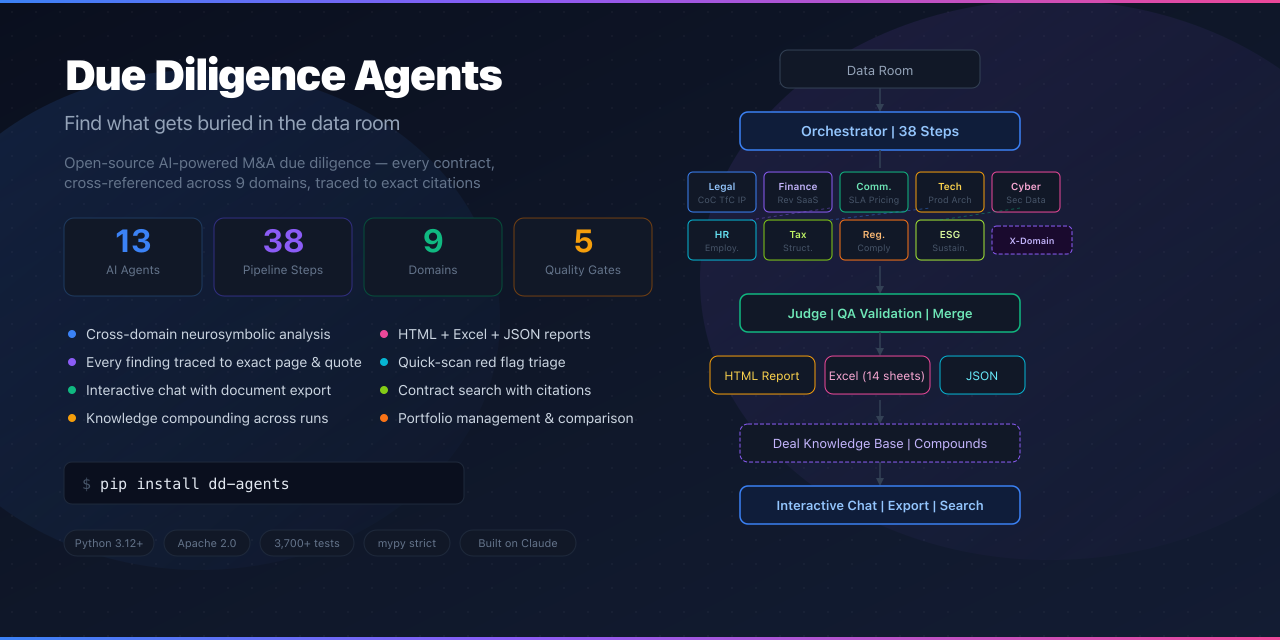
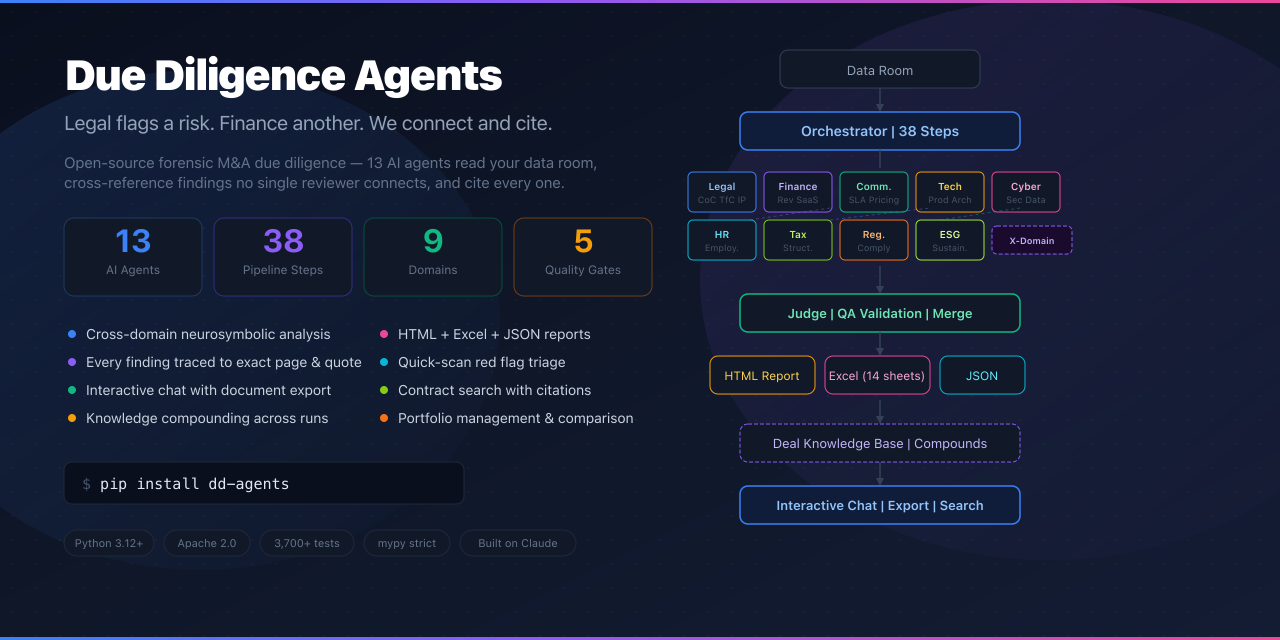
docs(marketing): refresh OG social-preview to new positioning + add distribution channel map
- social-preview.svg/png: tagline → "Legal flags a risk. Finance another. We
  connect and cite." + updated subtitle (kept the accurate architecture diagram,
  stats, badges). Re-rendered 1280×640; also improves docs-site OG previews
  (docs/overrides/main.html embeds it).
- README: fix "CLI Inteface" typo.
- Add docs/marketing/distribution-channels.md — the tiered, two-track channel map.

Repo homepage URL updated (PyPI → docs site) via gh; the repo's OG image itself
must be re-uploaded in GitHub repo Settings (no API for it).

Changed region(s): [[0.125, 0.25, 0.4688, 0.3125], [0.0625, 0.1875, 0.4375, 0.2188]]

diff --git a/docs/marketing/distribution-channels.md b/docs/marketing/distribution-channels.md
@@ -1,0 +1,104 @@
+# Distribution Channels — where to publish dd-agents
+
+> Research-backed map of every strong channel to publish and distribute **Due Diligence Agents**,
+> prioritized. Synthesized 2026-06-07 from launch-platform/directory/AI-tool research + the
+> existing [Product Hunt plan](producthunt-launch-plan.md) and the broader launch plan in project memory.
+
+## The core strategy (read first)
+
+dd-agents has **two audiences that barely overlap**, so we run **two distribution tracks**:
+
+1. **Developers / OSS** — discover via GitHub, Hacker News, package registries, AI-agent lists, dev launch platforms. They reward *open-source, `pip install`, local-run, the 13-agent architecture, cited/auditable*. This track is **free, high-volume, and SEO-compounding**.
+2. **M&A / PE / corp-dev / legaltech professionals** — the value buyers. They don't browse Product Hunt; they're reached via LinkedIn, legaltech press/newsletters, niche communities, and conferences. **Lower volume, far higher intent.**
+
+**Two governing principles from the research:**
+- **Distribution is a cadence, not an event.** "One launch is a coin flip; 12 launches is a marketing engine." Launch something (a feature, a milestone, a case study, the video) on *one* channel per month, forever — each gives a fresh story + a compounding backlink.
+- **Never copy-paste the same blurb** across directories (Google duplicate-content penalty) — rewrite the value prop per platform. Always add **UTM params** (`?utm_source=<channel>&utm_medium=listing`) so we can see what actually works.
+
+Our durable success metrics (free OSS, no signup funnel): **GitHub stars, PyPI/Docker installs, backlinks/DR, newsletter/press pickups, and qualified inbound from M&A pros.**
+
+---
+
+## TIER 1 — do these first (highest ROI, mostly free)
+
+### Developer track
+| Channel | Why / how | Effort | Notes |
+|---|---|---|---|
+| **Product Hunt** | The headline launch — see [producthunt-launch-plan.md](producthunt-launch-plan.md). Traffic spike + DR-91 backlink + newsletter + investor eyeballs. | High (1 day live) | Already fully planned. |
+| **Hacker News — Show HN** | Post the **GitHub repo** (HN favors repo links over branded URLs). Brutal but high-signal; a front-page Show HN can do more than PH for a dev tool. Separate day from PH. | Med | Maker first comment = the build story. Don't ask for upvotes. |
+| **GitHub itself** | Our home base. Optimize: README hero, 20 topics, social-preview image, Discussions on, good-first-issues, a crisp `about`. PR into **Awesome lists** (below). | Ongoing | Stars are the OSS currency; everything points here. |
+| **Awesome-* lists (PRs)** | High-DR, evergreen, free. Submit PRs to: `e2b-dev/awesome-ai-agents`, `kyrolabs/awesome-agents`, `Shubhamsaboo/awesome-llm-apps`, `slavakurilyak/awesome-ai-agents`, `mahseema/awesome-ai-tools`, plus an **awesome-legaltech** list. | Low each | One PR per list; tailor the one-line description. |
+| **DevHunt.org** | PH-for-dev-tools, open-source friendly. Use as a **dress rehearsal** ~a week before PH. | Low | GitHub integration is a plus. |
+| **Reddit** | Free/OSS gives latitude paid SaaS lacks. `r/opensource`, `r/Python`, `r/MachineLearning`, `r/LLMDevs`, `r/LocalLLaMA` (local-run angle!), `r/SideProject`, `r/webdev` Showoff Saturday. | Med | Lead with the problem + OSS tool; link repo; be a real participant, not a drive-by. |
+
+### M&A / professional track
+| Channel | Why / how | Effort | Notes |
+|---|---|---|---|
+| **LinkedIn (founder-led)** | Zohar's own posts are the single best M&A-pro channel. The missed-clause / "nobody connects the dots" story + the live sample report. #DueDiligence #LegalTech #MandA #PrivateEquity #CorporateDevelopment. | Low, recurring | Highest-intent reach we have; post the video here. |
+| **Artificial Lawyer** (Richard Tromans) | The legaltech outlet of record. Pitch *after* a strong PH result — "open-source forensic DD" + "Product of the Day" is a trend-story hook. | Med (pitch) | Email pitch; offer founder availability. |
+| **LawNext / Legaltech Hub** (Bob Ambrogi) | Podcast + directory. LegalTech Hub is a major **legaltech product directory** — get listed. | Med | Directory listing is evergreen; podcast is a stretch but high-value. |
+
+---
+
+## TIER 2 — strong, do within the first month
+
+### AI-tool & agent directories (free or low-cost, dofollow, SEO-compounding)
+Submit with a **rewritten** blurb + the sample-report link + UTMs. Highest-value first:
+- **There's An AI For That (TAAFT)** — highest DR in the AI niche; best long-term organic traffic. (Free queue slow; paid ~$199 guarantees newsletter to ~400k.)
+- **Futurepedia** — niche B2B categorization, ~1M visits, 180k newsletter. Good fit for a "business/back-office AI" tool.
+- **Toolify.ai** — power users/researchers; ~48h approval.
+- **futuretools.io** (Matt Wolfe) — free, huge traffic, dofollow.
+- **topai.tools**, **easywithai.com**, **insidr.ai**, **genai.works** (massive LinkedIn) — free/cheap, dofollow.
+- **AI-agent-specific marketplaces**: Altern (1000+ agents), AI Agents Directory, AI Agent Store, aiagentsdirectory.com, AgentMCP directory (if/when we expose MCP). These are where someone searching *"AI agent for due diligence"* lands.
+
+### Dev launch platforms (one per month cadence)
+- **BetaList** (pre-launch signups, submit 2–4 wks early), **Peerlist** (technical community), **Uneed** (solid for AI tools), **Microlaunch**, **Tiny Launch / Tiny Startups** (newsletter-driven), **Indie Hackers** (launch + community — Zohar should be a real member).
+
+### Package registries (meet developers where they install)
+Every new install path = a new discovery surface + credibility:
+- ✅ **PyPI** (`pip install dd-agents`) — live.
+- ✅ **Docker Hub + GHCR** — live.
+- ✅ **Homebrew** (tap) — live.
+- **conda-forge** — submit a recipe; reaches the data-science/Python-analyst crowd (very on-target for finance/DD users).
+- **pipx** — document `pipx install dd-agents` (isolated CLU installs; already works).
+- **Snap / Scoop / WinGet / AUR** — optional; broaden OS reach if there's Windows/Linux desktop demand. (We already ship Docker, so lower priority.)
+
+### Content platforms (the flywheel)
+- **Dev.to** + **Hashnode** (`#showdev`, `#ai`, `#opensource`) — repurpose the trust-layer article + "how I built 13 cross-referencing agents" + "what I learned launching on PH."
+- **Medium** (Better Programming / Towards Data Science-style pubs) for the M&A-meets-AI angle.
+- **daily.dev** — get the blog approved as a source; devs see every post.
+- **Console.dev**, **GitHub20k**, **OpenSourceAlternative.to / OpenAlternative** — free dev-tool newsletter/directory submits.
+- **YouTube** — the launch video + a screen-recorded walkthrough; evergreen search ("AI due diligence", "automate contract review").
+
+---
+
+## TIER 3 — niche, high-intent, longer lead time (M&A / legaltech depth)
+
+- **Legaltech directories & review sites**: Legaltech Hub, **G2** + **Capterra** (Gartner-owned, buyer-intent traffic; claim free profiles, gather reviews), **AlternativeTo** ("alternative to Kira/Luminance/Litera" captures competitor search), **SaaSHub**, **Slashdot/SourceForge** (legacy but real OSS traffic).
+- **M&A / PE / corp-dev communities**: corp-dev & PE Slack/Discord groups, **Axial** (lower-middle-market deal community), the SourceScrub/Grata/Sourceco orbit (adjacent deal-sourcing audiences). Be a contributor, not a spammer.
+- **Newsletters/podcasts**: "AI and the Future of Law", LawNext, legaltech substacks; PE/corp-dev newsletters (e.g. deal-sourcing roundups). Pitch the founder story + the open-source angle (rare in this space).
+- **Conferences** (2026): **ILTACON** (Aug), **Legal Geek** (Oct), **CLOC Global** (May), corp-dev/M&A summits. Even a lightning demo or a hallway-track presence drives credibility. Most have a startup/demo track.
+- **Academic / research**: the [knowledge-architecture](knowledge-architecture.md) foundations make this credible — arXiv-adjacent writeups, or sharing the eval datasheet, reach the "AI for law/finance" research crowd.
+
+---
+
+## Positioning notes per track (keep messaging honest + on-brand)
+- **Dev channels** → lead with the tagline's *mechanism*: open-source, 13 agents, cross-reference across 9 domains, cite to an exact quote, runs local. Show `pip install dd-agents` + the sample report.
+- **M&A channels** → lead with the *pain*: the buried clause nobody connects across siloed workstreams; "accelerates your advisors, doesn't replace them" (never "board-ready", never "replaces advisors").
+- **Everywhere**: the [live sample report](https://zoharbabin.github.io/due-diligence-agents/sample-report/) is the zero-friction "aha" — link it in every listing.
+
+## Anti-patterns (from the research)
+- Don't dump the same blurb everywhere (duplicate-content penalty).
+- Don't pay for low-DR/low-traffic directories or "$200/yr for shitty traffic" link farms — vet SimilarWeb traffic + dofollow before paying.
+- Don't spray cold communities you're not part of (Meetric's lesson) — quality over quantity.
+- Don't treat any single launch as the finish line — it's the cadence that compounds.
+
+## Suggested 90-day cadence
+- **Week 0**: GitHub polish + Awesome-list PRs + PyPI/Docker/Homebrew (done) + free AI directories.
+- **Launch week**: DevHunt (rehearsal) → Product Hunt → Show HN (separate day) → LinkedIn + X + Reddit.
+- **Weeks 2–4**: conda-forge recipe, dev.to/Hashnode posts, remaining AI directories, BetaList/Peerlist/Uneed.
+- **Month 2**: Artificial Lawyer / LawNext pitch (using PH result), G2/Capterra/AlternativeTo profiles, a YouTube walkthrough.
+- **Month 3+**: one launch/month (new feature, case study, the video), conference/community presence, niche newsletters.
+
+---
+*Channel inventory current as of 2026-06-07; re-verify traffic/pricing/dofollow before paying for any listing.*

diff --git a/README.md b/README.md
@@ -38,7 +38,7 @@
 ---
 
 <details>
-<summary><strong>CLI Inteface Walkthrough Recording</strong></summary>
+<summary><strong>CLI Interface Walkthrough Recording</strong></summary>
   
 https://github.com/user-attachments/assets/03ae7e38-8280-488c-898a-61c1a361bb7d
 